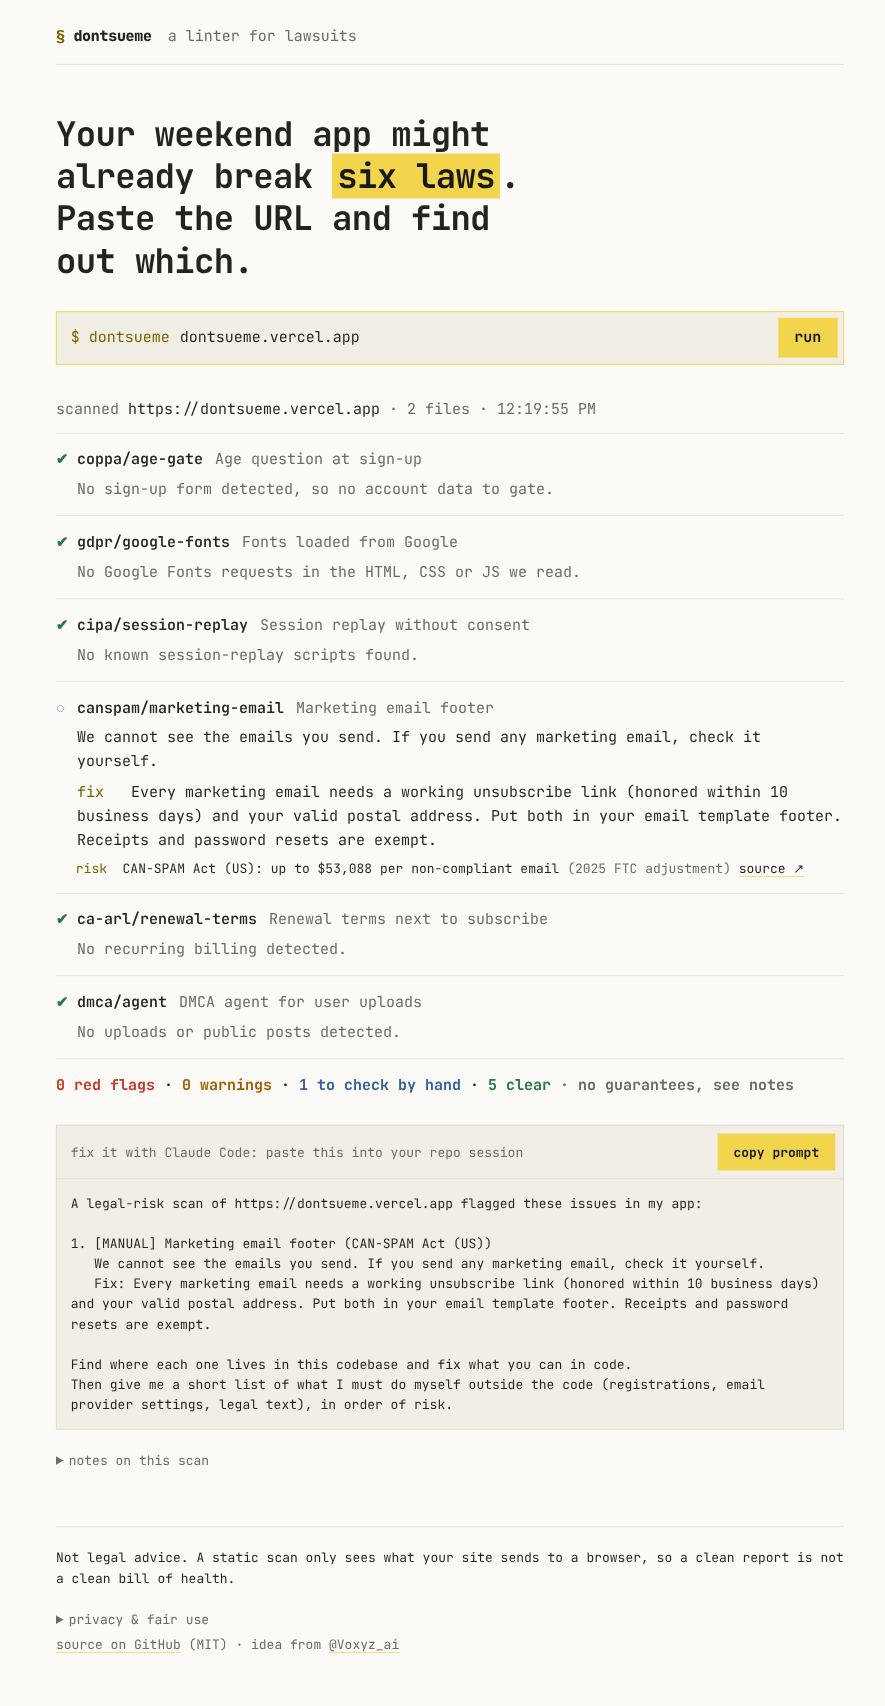
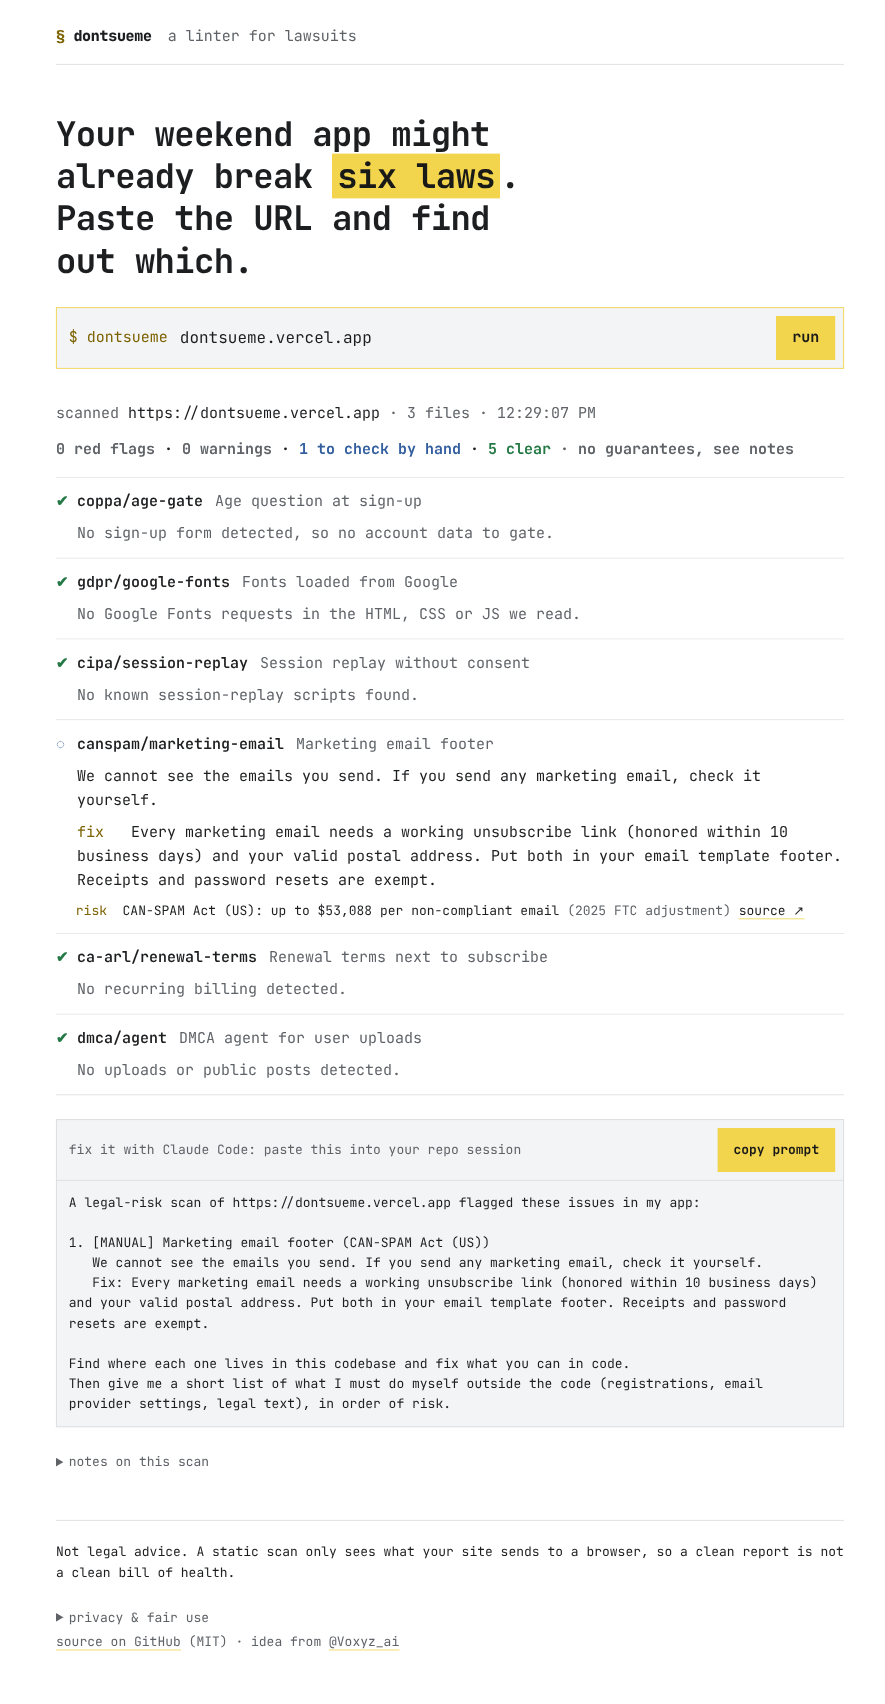
Unslop pass: cool neutral palette, one spacing scale, verdict first
- Light mode is a light terminal profile (white + cool greys), not cream
- All margins/paddings/gaps on a 4/8/12/16/24/32/48 scale
- Tally moves to the top of the report; zero counts are dimmed, not red
- Pluralize the file count; refresh README screenshot and banner colors

diff --git a/src/index.css b/src/index.css
@@ -2,11 +2,11 @@
    accent: legal-pad yellow, used like a highlighter. Red/amber/green only
    ever mean severity. */
 :root {
-  --ink: #e8e6df;
-  --dim: #8b8a84;
-  --rule: #2b2b28;
-  --bg: #121211;
-  --panel: #1a1a18;
+  --ink: #e6e7e9;
+  --dim: #8d9096;
+  --rule: #2a2c30;
+  --bg: #111214;
+  --panel: #191a1d;
   --pad: #f2d64b;
   --pad-ink: #121211;
   --pad-text: #f2d64b; /* yellow used as text */
@@ -14,17 +14,26 @@
   --warn: #f0a63a;
   --pass: #6cc28a;
   --manual: #8fb4e8;
+  /* one spacing scale, nothing off it */
+  --s-1: 4px;
+  --s-2: 8px;
+  --s-3: 12px;
+  --s-4: 16px;
+  --s-5: 24px;
+  --s-6: 32px;
+  --s-7: 48px;
   --mono: 'JetBrains Mono Variable', ui-monospace, 'SFMono-Regular', Menlo, monospace;
   color-scheme: dark;
 }
 
 @media (prefers-color-scheme: light) {
   :root {
-    --ink: #1d1d1b;
-    --dim: #6b6a64;
-    --rule: #dcdad2;
-    --bg: #fbfaf6;
-    --panel: #f1efe7;
+    /* light terminal profile: white with cool greys, not cream */
+    --ink: #17181a;
+    --dim: #5f6368;
+    --rule: #dadce0;
+    --bg: #ffffff;
+    --panel: #f3f4f6;
     --pad: #f2d64b;
     --pad-text: #7d6200;
     --fail: #c8321f;
@@ -65,7 +74,7 @@ a:hover {
 .page {
   max-width: 820px;
   margin: 0 auto;
-  padding: 24px 16px 48px;
+  padding: var(--s-5) var(--s-4) var(--s-7);
   min-height: 100svh;
   display: flex;
   flex-direction: column;
@@ -80,9 +89,9 @@ main {
 
 .masthead {
   display: flex;
-  gap: 16px;
+  gap: var(--s-4);
   align-items: baseline;
-  padding-bottom: 16px;
+  padding-bottom: var(--s-4);
   border-bottom: 1px solid var(--rule);
 }
 .wordmark {
@@ -99,7 +108,7 @@ h1 {
   line-height: 1.25;
   font-weight: 700;
   letter-spacing: -0.02em;
-  margin: 48px 0 28px;
+  margin: var(--s-7) 0 var(--s-5);
   max-width: 24ch;
 }
 mark {
@@ -112,10 +121,10 @@ mark {
 .prompt {
   display: flex;
   align-items: center;
-  gap: 10px;
+  gap: var(--s-3);
   border: 1px solid var(--rule);
   background: var(--panel);
-  padding: 6px 6px 6px 14px;
+  padding: var(--s-2) var(--s-2) var(--s-2) var(--s-3);
 }
 .prompt:focus-within {
   border-color: var(--pad);
@@ -132,7 +141,7 @@ mark {
   color: var(--ink);
   font: inherit;
   font-size: max(1rem, 1em); /* under 16px makes iOS zoom on focus */
-  padding: 8px 0;
+  padding: var(--s-2) 0;
   outline: none;
 }
 .prompt input::placeholder {
@@ -144,7 +153,7 @@ button {
   background: var(--pad);
   color: var(--pad-ink);
   border: 0;
-  padding: 8px 16px;
+  padding: var(--s-2) var(--s-4);
   min-block-size: 2.75rem;
   cursor: pointer;
 }
@@ -166,7 +175,7 @@ pre:focus-visible {
 
 /* rules list (idle) */
 .rules {
-  margin-top: 36px;
+  margin-top: var(--s-6);
 }
 .rules ol,
 .checks {
@@ -177,8 +186,8 @@ pre:focus-visible {
 .rules li {
   display: grid;
   grid-template-columns: minmax(0, 15rem) 1fr auto;
-  gap: 16px;
-  padding: 8px 0;
+  gap: var(--s-4);
+  padding: var(--s-2) 0;
   border-bottom: 1px dashed var(--rule);
 }
 .rule {
@@ -191,11 +200,11 @@ pre:focus-visible {
 }
 
 .busy {
-  margin-top: 28px;
+  margin-top: var(--s-5);
   color: var(--dim);
 }
 .busy p {
-  margin: 2px 0;
+  margin: 0;
 }
 .cursor {
   color: var(--pad-text);
@@ -210,20 +219,20 @@ pre:focus-visible {
 }
 
 .error {
-  margin-top: 28px;
+  margin-top: var(--s-5);
   color: var(--fail);
 }
 
 /* report */
 .report {
-  margin-top: 32px;
+  margin-top: var(--s-6);
 }
 .report-target {
-  margin: 0 0 12px;
+  margin: 0 0 var(--s-3);
   overflow-wrap: anywhere;
 }
 .check {
-  padding: 14px 0;
+  padding: var(--s-3) 0;
   border-top: 1px solid var(--rule);
   @media (prefers-reduced-motion: no-preference) {
     animation: line-in 0.25s ease-out both;
@@ -238,7 +247,7 @@ pre:focus-visible {
 .check-head {
   display: flex;
   flex-wrap: wrap;
-  gap: 4px 12px;
+  gap: var(--s-1) var(--s-3);
   align-items: baseline;
 }
 .mark {
@@ -272,7 +281,7 @@ span.s-manual {
 .fix,
 .risk,
 .evidence {
-  margin: 6px 0 0 calc(1ch + 12px);
+  margin: var(--s-2) 0 0 calc(1ch + var(--s-3));
 }
 .evidence {
   list-style: none;
@@ -300,14 +309,15 @@ span.s-manual {
 }
 
 .tally {
-  border-top: 1px solid var(--rule);
-  padding-top: 14px;
-  margin: 0;
+  margin: 0 0 var(--s-4);
   font-weight: 700;
+}
+.checks {
+  border-bottom: 1px solid var(--rule);
 }
 
 .prompt-box {
-  margin-top: 28px;
+  margin-top: var(--s-5);
   border: 1px solid var(--rule);
   background: var(--panel);
 }
@@ -315,8 +325,8 @@ span.s-manual {
   display: flex;
   justify-content: space-between;
   align-items: center;
-  gap: 12px;
-  padding: 8px 8px 8px 14px;
+  gap: var(--s-3);
+  padding: var(--s-2) var(--s-2) var(--s-2) var(--s-3);
   border-bottom: 1px solid var(--rule);
   color: var(--dim);
   font-size: 13px;
@@ -330,7 +340,7 @@ span.s-manual {
 }
 .prompt-box pre {
   margin: 0;
-  padding: 14px;
+  padding: var(--s-3);
   font: 13px/1.55 var(--mono);
   white-space: pre-wrap;
   overflow-wrap: anywhere;
@@ -339,7 +349,7 @@ span.s-manual {
 }
 
 .notes {
-  margin-top: 20px;
+  margin-top: var(--s-5);
   color: var(--dim);
   font-size: 13px;
 }
@@ -351,13 +361,13 @@ span.s-manual {
 }
 
 footer {
-  margin-top: 56px;
-  padding-top: 16px;
+  margin-top: var(--s-7);
+  padding-top: var(--s-4);
   border-top: 1px solid var(--rule);
   font-size: 13px;
 }
 footer p {
-  margin: 4px 0;
+  margin: var(--s-1) 0;
 }
 
 .sr-only {

diff --git a/src/components/Report.tsx b/src/components/Report.tsx
@@ -12,7 +12,16 @@ export function Report({ result }: { result: ScanResult }) {
     <section className="report" aria-label="Scan report">
       <p className="report-target">
         <span className="dim">scanned</span> {result.target}{' '}
-        <span className="dim">· {result.scanned.length} files · {new Date(result.scannedAt).toLocaleTimeString()}</span>
+        <span className="dim">· {plural(result.scanned.length, 'file')} · {new Date(result.scannedAt).toLocaleTimeString()}</span>
+      </p>
+
+      <p className="tally">
+        {/* a zero shouldn't shout in alarm red */}
+        <span className={counts.fail ? 's-fail' : 'dim'}>{plural(counts.fail, 'red flag')}</span> ·{' '}
+        <span className={counts.warn ? 's-warn' : 'dim'}>{plural(counts.warn, 'warning')}</span> ·{' '}
+        <span className={counts.manual ? 's-manual' : 'dim'}>{counts.manual} to check by hand</span> ·{' '}
+        <span className={counts.pass ? 's-pass' : 'dim'}>{counts.pass} clear</span>
+        <span className="dim"> · no guarantees, see notes</span>
       </p>
 
       <ol className="checks" role="list">
@@ -21,13 +30,6 @@ export function Report({ result }: { result: ScanResult }) {
         ))}
       </ol>
 
-      <p className="tally">
-        <span className="s-fail">{plural(counts.fail, 'red flag')}</span> ·{' '}
-        <span className="s-warn">{plural(counts.warn, 'warning')}</span> ·{' '}
-        <span className="s-manual">{counts.manual} to check by hand</span> ·{' '}
-        <span className="s-pass">{counts.pass} clear</span>
-        <span className="dim"> · no guarantees, see notes</span>
-      </p>
 
       {prompt && <PromptBox prompt={prompt} />}
 
